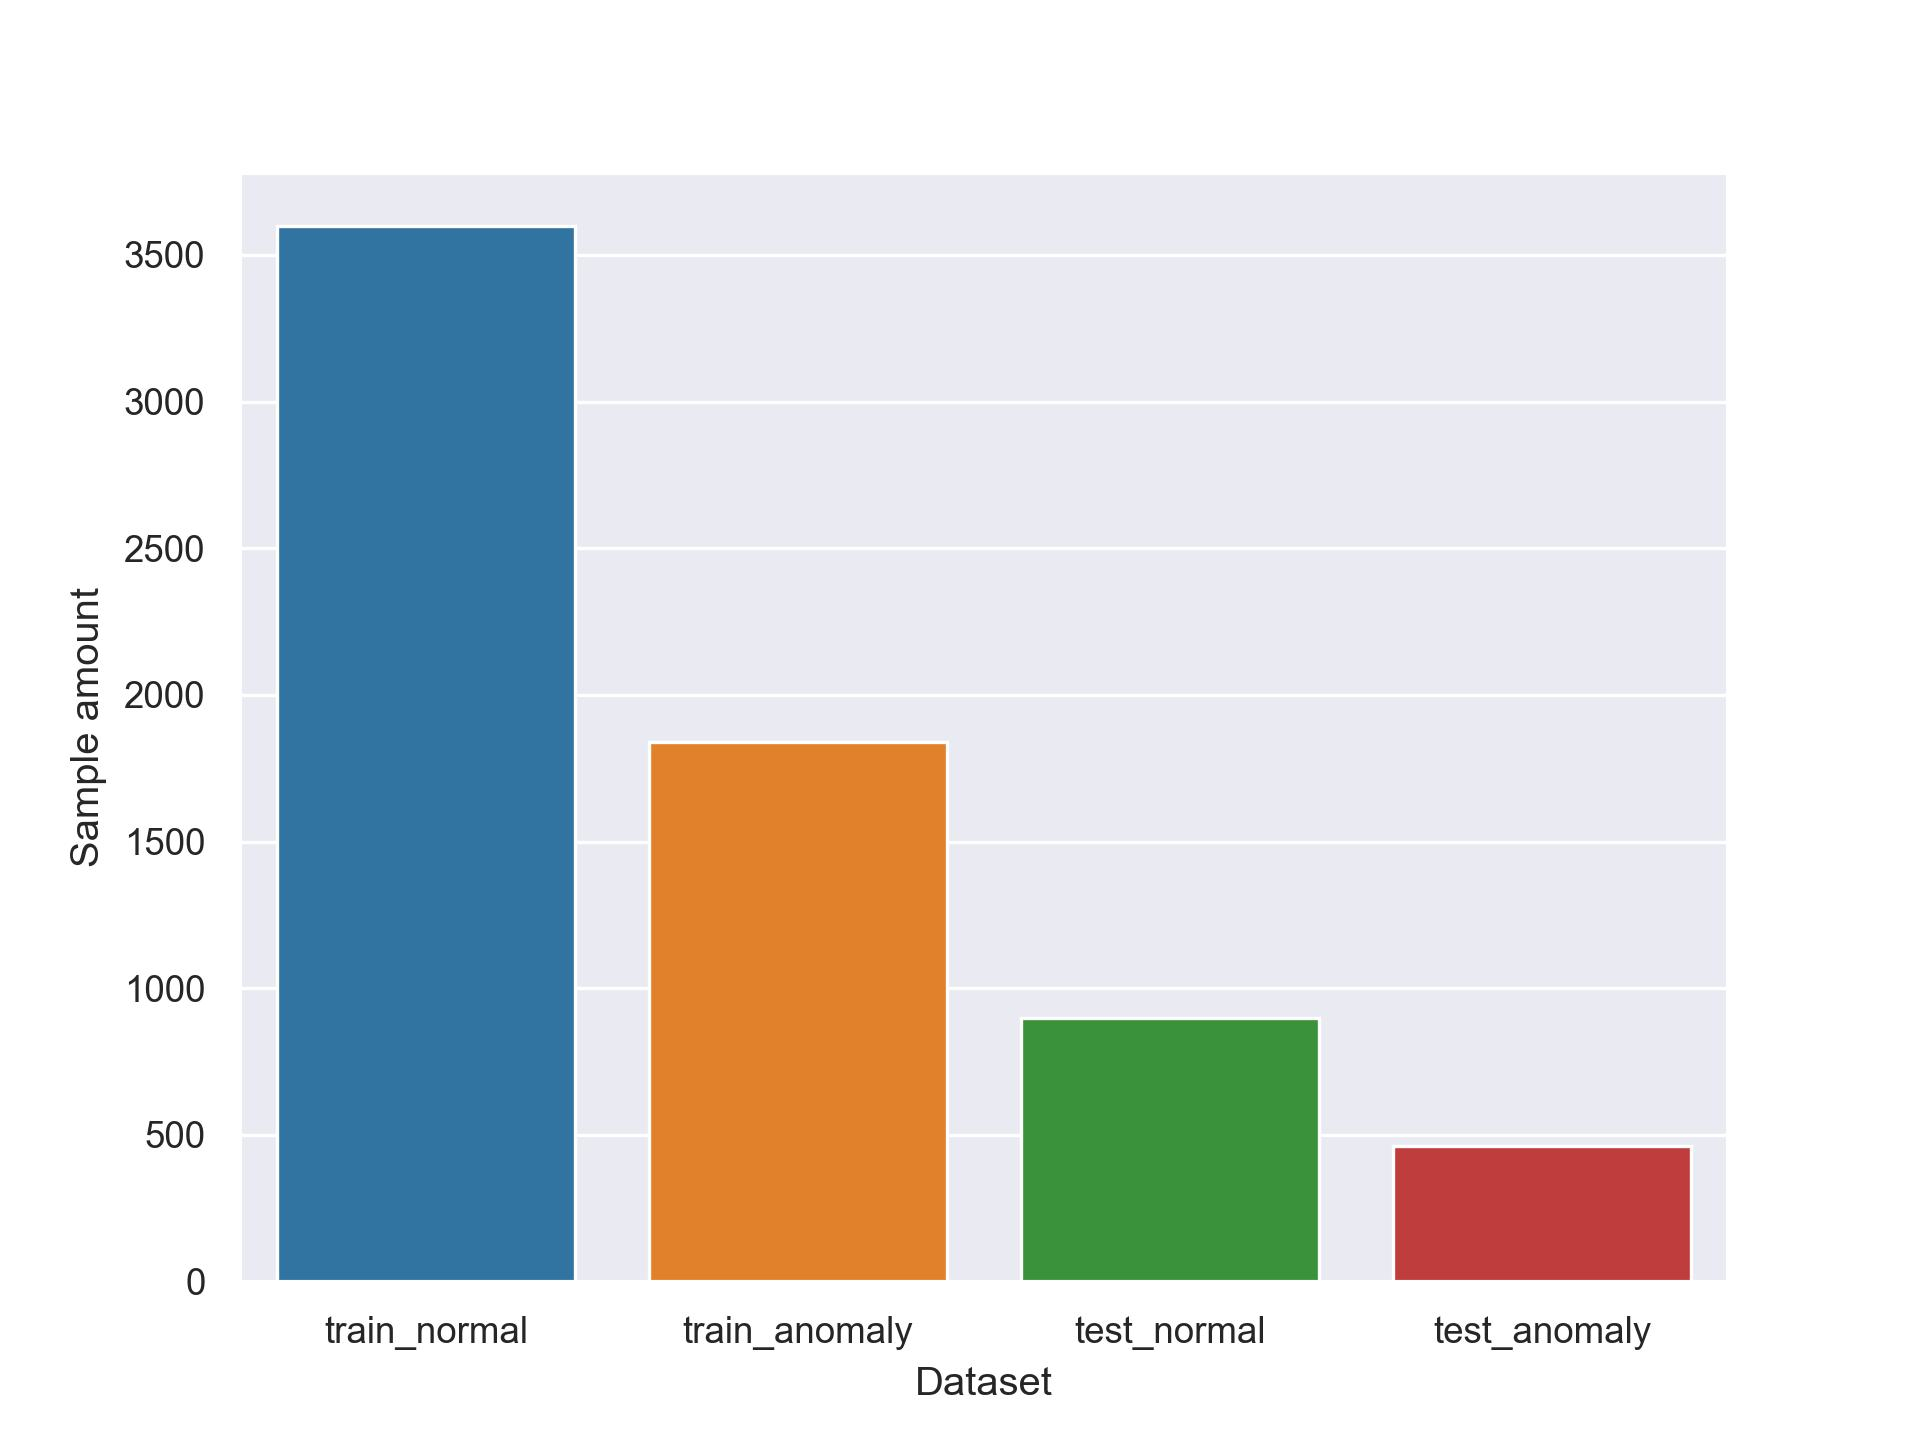
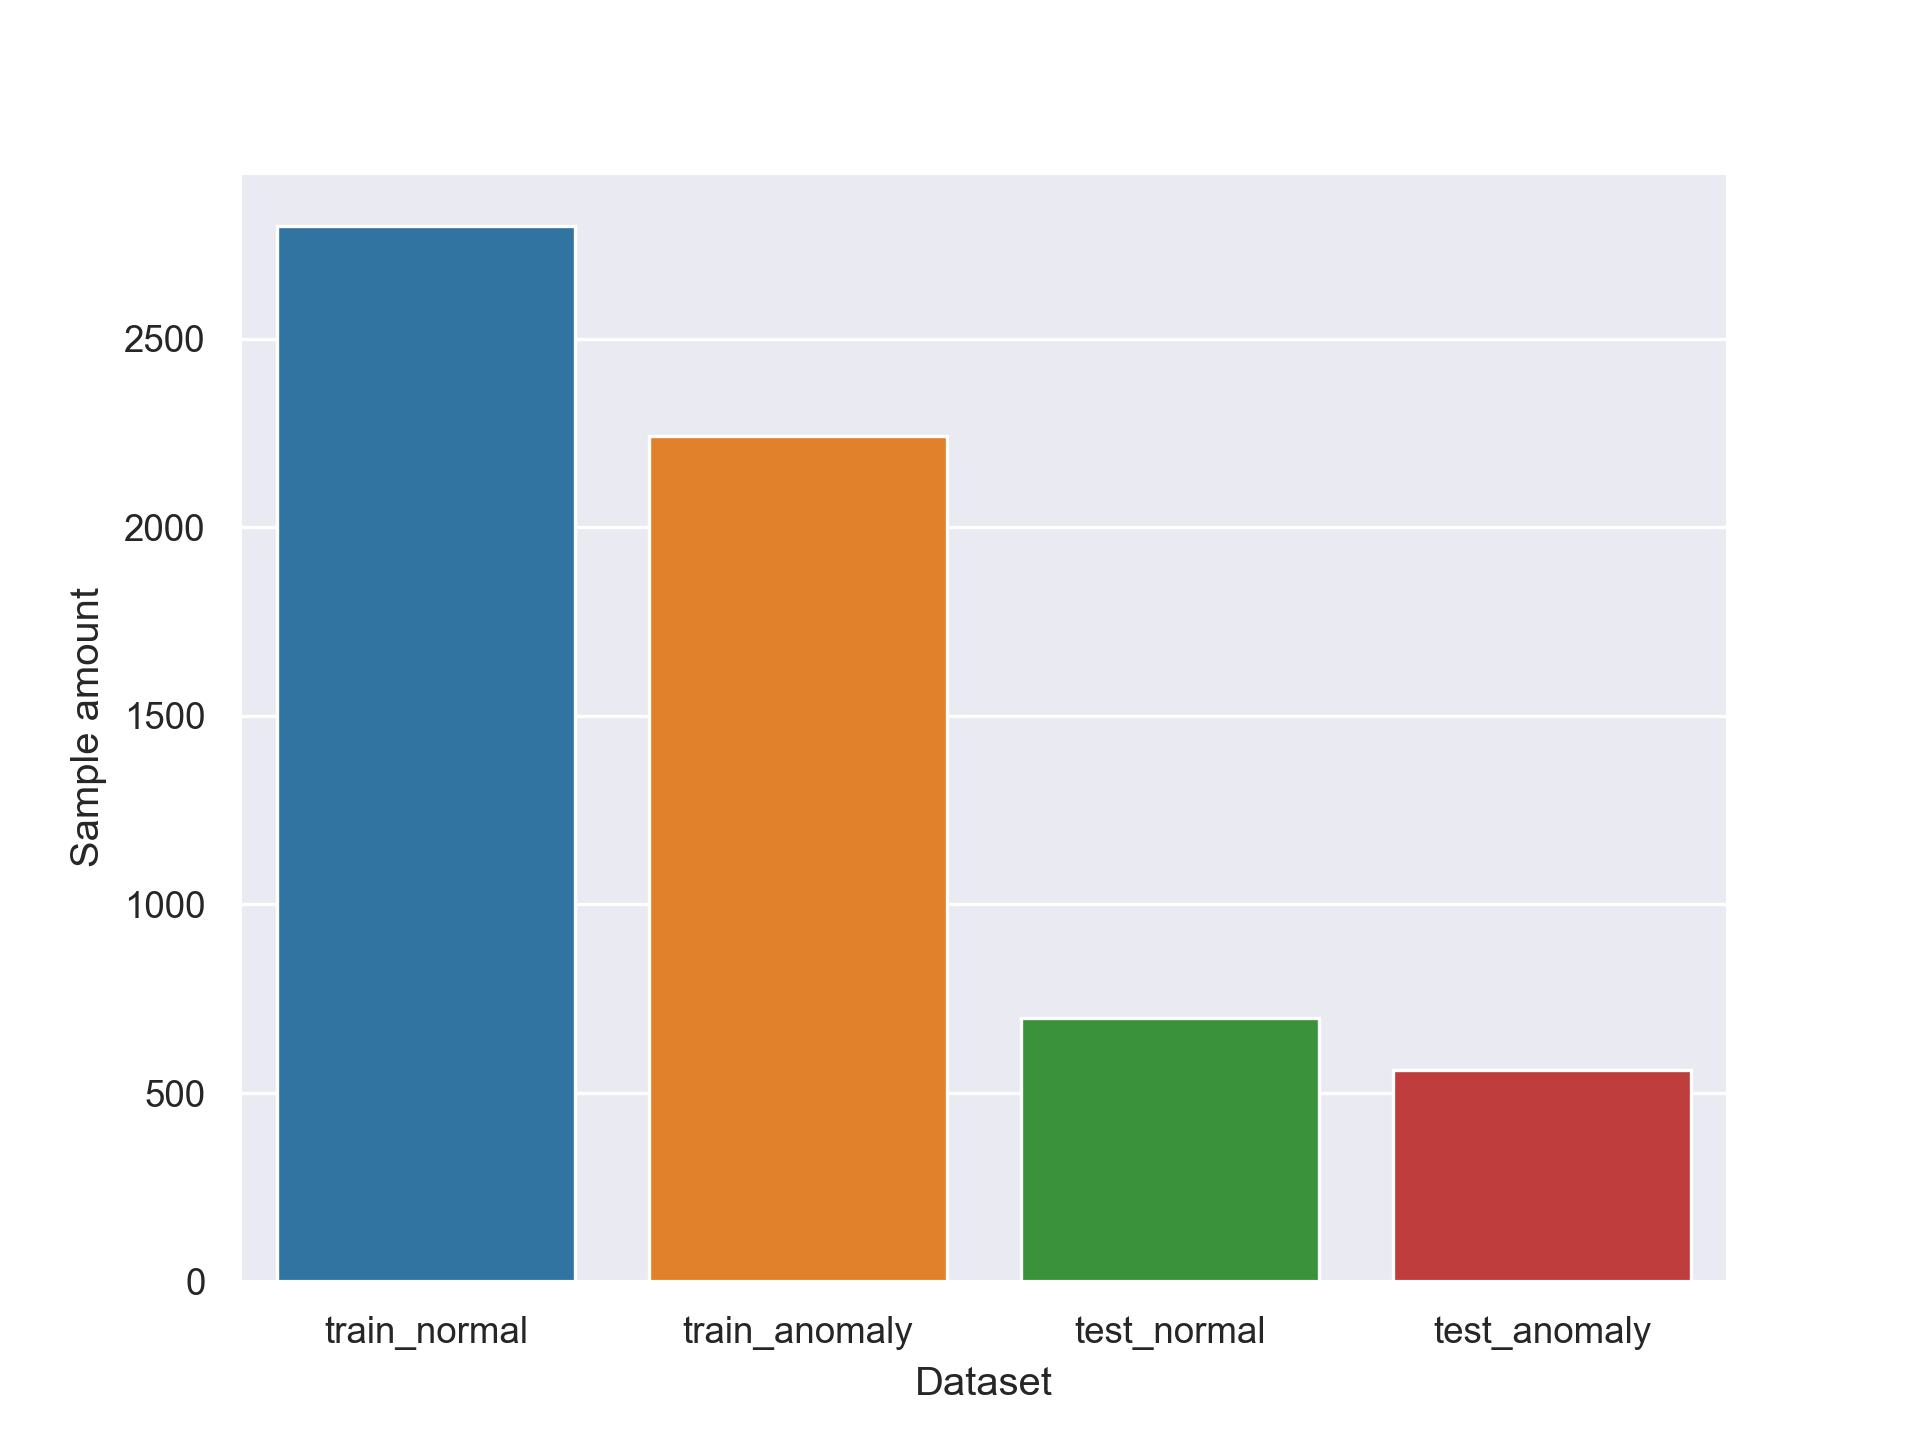
🥲

diff --git a/My_KNN.py b/My_KNN.py
@@ -2,6 +2,30 @@ from sklearn.neighbors import KNeighborsClassifier as knn
 import numpy as np
 from utils import wrappers
 from sklearn.metrics import pairwise
+from time import time
+import scipy
+
+class KNN_():
+    
+    
+    def __init__(self,n_neighbors):
+        self.n_neighbors=n_neighbors
+        self._X_train = None 
+        self._y_train = None
+        
+    def fit(self,X_train,y_train):
+        self._X_train=X_train
+        self._y_train=y_train
+        return self 
+            
+    def predict(self,X_test):
+        distances = [np.linalg.norm(x_test-self._X_train,ord=2,axis=1) for x_test in X_test] # caculate the distance
+        distances_sort=[ np.argsort(distance)[0:self.n_neighbors] for distance in distances] # sort by distance and only select Top n_neighbors point with shortest distance
+        target=[self._y_train[distance_s] for distance_s in distances_sort]  # get the label of these point
+        class_result=scipy.stats.mode(target, axis = 1)[0].flatten()  #select mode label of the distance
+        del distances,distances_sort,target   #del variable and release memory
+        return class_result
+
 
 class MyKnn:
     def __init__(self, test_data: np.ndarray, scaler):
@@ -11,12 +35,12 @@ class MyKnn:
     @wrappers.time_counter
     def classifyByKNN(self, X:np.ndarray,y:np.ndarray):
 
-        classifer = knn(algorithm="brute")
+        classifer = KNN_(n_neighbors=1)
         classifer.fit(X, y)
 
         return classifer.predict(self.test_data)
 
-    @wrappers.time_counter
+    
     def classifyByImprovedKNN(self, indices):
 
         # indices是直接读取的json文件，先进行转换
@@ -30,34 +54,38 @@ class MyKnn:
         # N个聚簇
         N = len(core_samples)
         # 分别对每个聚簇建立分类器
-        classifiers = [knn(n_neighbors=1)] * N
+        classifiers = [knn(n_neighbors=1,algorithm="brute")] * N
 
-        # 从这里开始计时
+        
         for i in range(N):
             classifiers[i].fit(clusters[i], labels[i])
         
         # 测试样本i到第j个聚簇核心点的距离
-        mat=pairwise.euclidean_distances(test_data,core_samples)
+        mat=pairwise.euclidean_distances(self.test_data,core_samples)
         # 样本*候选聚簇矩阵，表示聚簇j是不是第i个样本的候选聚簇
         mat=mat<=max_dists
-
+        # 从这里开始计时
+        start=time()
         res = []
         # 对每条测试样本分别筛选候选聚簇，并得出预测结果
         for i in range(len(self.test_data)):
             tmp={}
             for j in range(N):
                 if(mat[i][j]):
-                    # todo: 找到每个簇里最近的样本
+                    
                     crt_dist,crt_sample=classifiers[j].kneighbors(self.test_data[i].reshape((1,-1)))
                     crt_label=labels[j][crt_sample.item()]
                     tmp[crt_label]=tmp.get(crt_label,0)+1/(1+crt_dist[0])
             # 没有候选聚簇直接判定为异常样本
             if(len(tmp)==0):
-                res.append(-1)
+                res.append(1)
             else:
                 # todo：统计得出预测结果
                 res.append(sorted(tmp.items(), key=lambda x: x[1])[0][0])
-
+        end=time()
+        print("------------------classifyByImprovedKNN-----------------")
+        print(f"time consumed: {end-start}")
+        print("--------------------------------------------------------")
         # 返回预测类别
         return np.array(res)
 

diff --git a/main.py b/main.py
@@ -8,8 +8,6 @@ import json
 import seaborn as sns
 from utils import wrappers
 
-sns.set_style("darkgrid")
-sns.set_context("paper")
 
 def load_data(file_path: str,if_csv:bool):
     if(if_csv):
@@ -24,6 +22,7 @@ def preprocess(data: np.ndarray, split: bool):
     X = data[:, :-1]
     y = data[:, -1:]
     
+    # todo：按类别划分
     if(split):
         
         train_X, test_X, train_y, test_y = train_test_split(
@@ -44,7 +43,7 @@ def train(X,y,indices_name:str):
     model.fit()
     model.saveIndices(indices_name)
 
-@wrappers.time_counter
+
 def test(train_X, train_y, test_X, scaler:MinMaxScaler,mode:str,indices_path:str):
     train_X=scaler.transform(train_X)
     pred=None
@@ -62,15 +61,40 @@ def test(train_X, train_y, test_X, scaler:MinMaxScaler,mode:str,indices_path:str
 
     return pred
 
-def evaluate():
-    ...
+def evaluate(test_y:np.ndarray,pred1:np.ndarray,pred2:np.ndarray):
+    test_y=test_y.flatten()
+    total=len(test_y)
 
+    tp1,tp2=sum((pred1==test_y)&(pred1==1)),sum((pred2==test_y)&(pred2==1))
+    fp1,fp2=sum((pred1!=test_y)&(pred1==1)),sum((pred2!=test_y)&(pred2==1))
+    tn1,tn2=sum((pred1==test_y)&(pred1==0)),sum((pred2==test_y)&(pred2==0))
+    fn1,fn2=sum((pred1!=test_y)&(pred1==0)),sum((pred2!=test_y)&(pred2==0))
+    # ACC
+    acc1=sum(pred1==test_y)/total
+    acc2=sum(pred2==test_y)/total
+    
+    # FPR
+    fpr1=fp1/(fp1+tn1)
+    fpr2=fp2/(fp2+tn2)
+    # FNR
+    fnr1=fn1/(tp1+fn1)
+    fnr2=fn2/(tp2+fn2)
 
+    return {"acc":[acc1,acc2],"fpr":[fpr1,fpr2],"fnr":[fnr1,fnr2]}
 
-
-if __name__ == "__main__":
+def go():
     data=load_data("./data/final_data.txt",False)
     train_X, train_y, test_X, test_y, scaler=preprocess(data,split=True)
     # print(train_y)
-    train(train_X,train_y,"1")
-    # test()
+    # train(train_X,train_y,"1")
+    pred1=test(train_X, train_y, test_X, scaler,"KNN","./1.json")
+    pred2=test(train_X, train_y, test_X, scaler,"Improved_KNN","./1.json")
+    
+    print(evaluate(test_y,pred1,pred2))
+
+if __name__ == "__main__":
+    go()
+    # test_y=np.array([1,1,0,0])
+    # pred1=np.array([1,0,0,0])
+    # pred2=np.array([1,1,1,0])
+    # print(evaluate(test_y,pred1,pred2))

diff --git a/utils/draw.py b/utils/draw.py
@@ -1,13 +1,15 @@
 import pandas as pd
 import seaborn as sns
 from matplotlib import pyplot as plt
+sns.set_style("darkgrid")
+sns.set_context("paper")
 
 
 def get_data_dist():
 
     df=pd.DataFrame(data={
         "Dataset":["train_normal","train_anomaly","test_normal","test_anomaly"],
-        "Sample amount":[3600,1841,900,461]
+        "Sample amount":[2800,2242,700,560]
     })
     sns.barplot(data=df,x="Dataset",y="Sample amount")
 
@@ -19,4 +21,4 @@ def get_K_cLuster_curve():
 
 
 if __name__=='__main__':
-    ...
+    get_data_dist()
